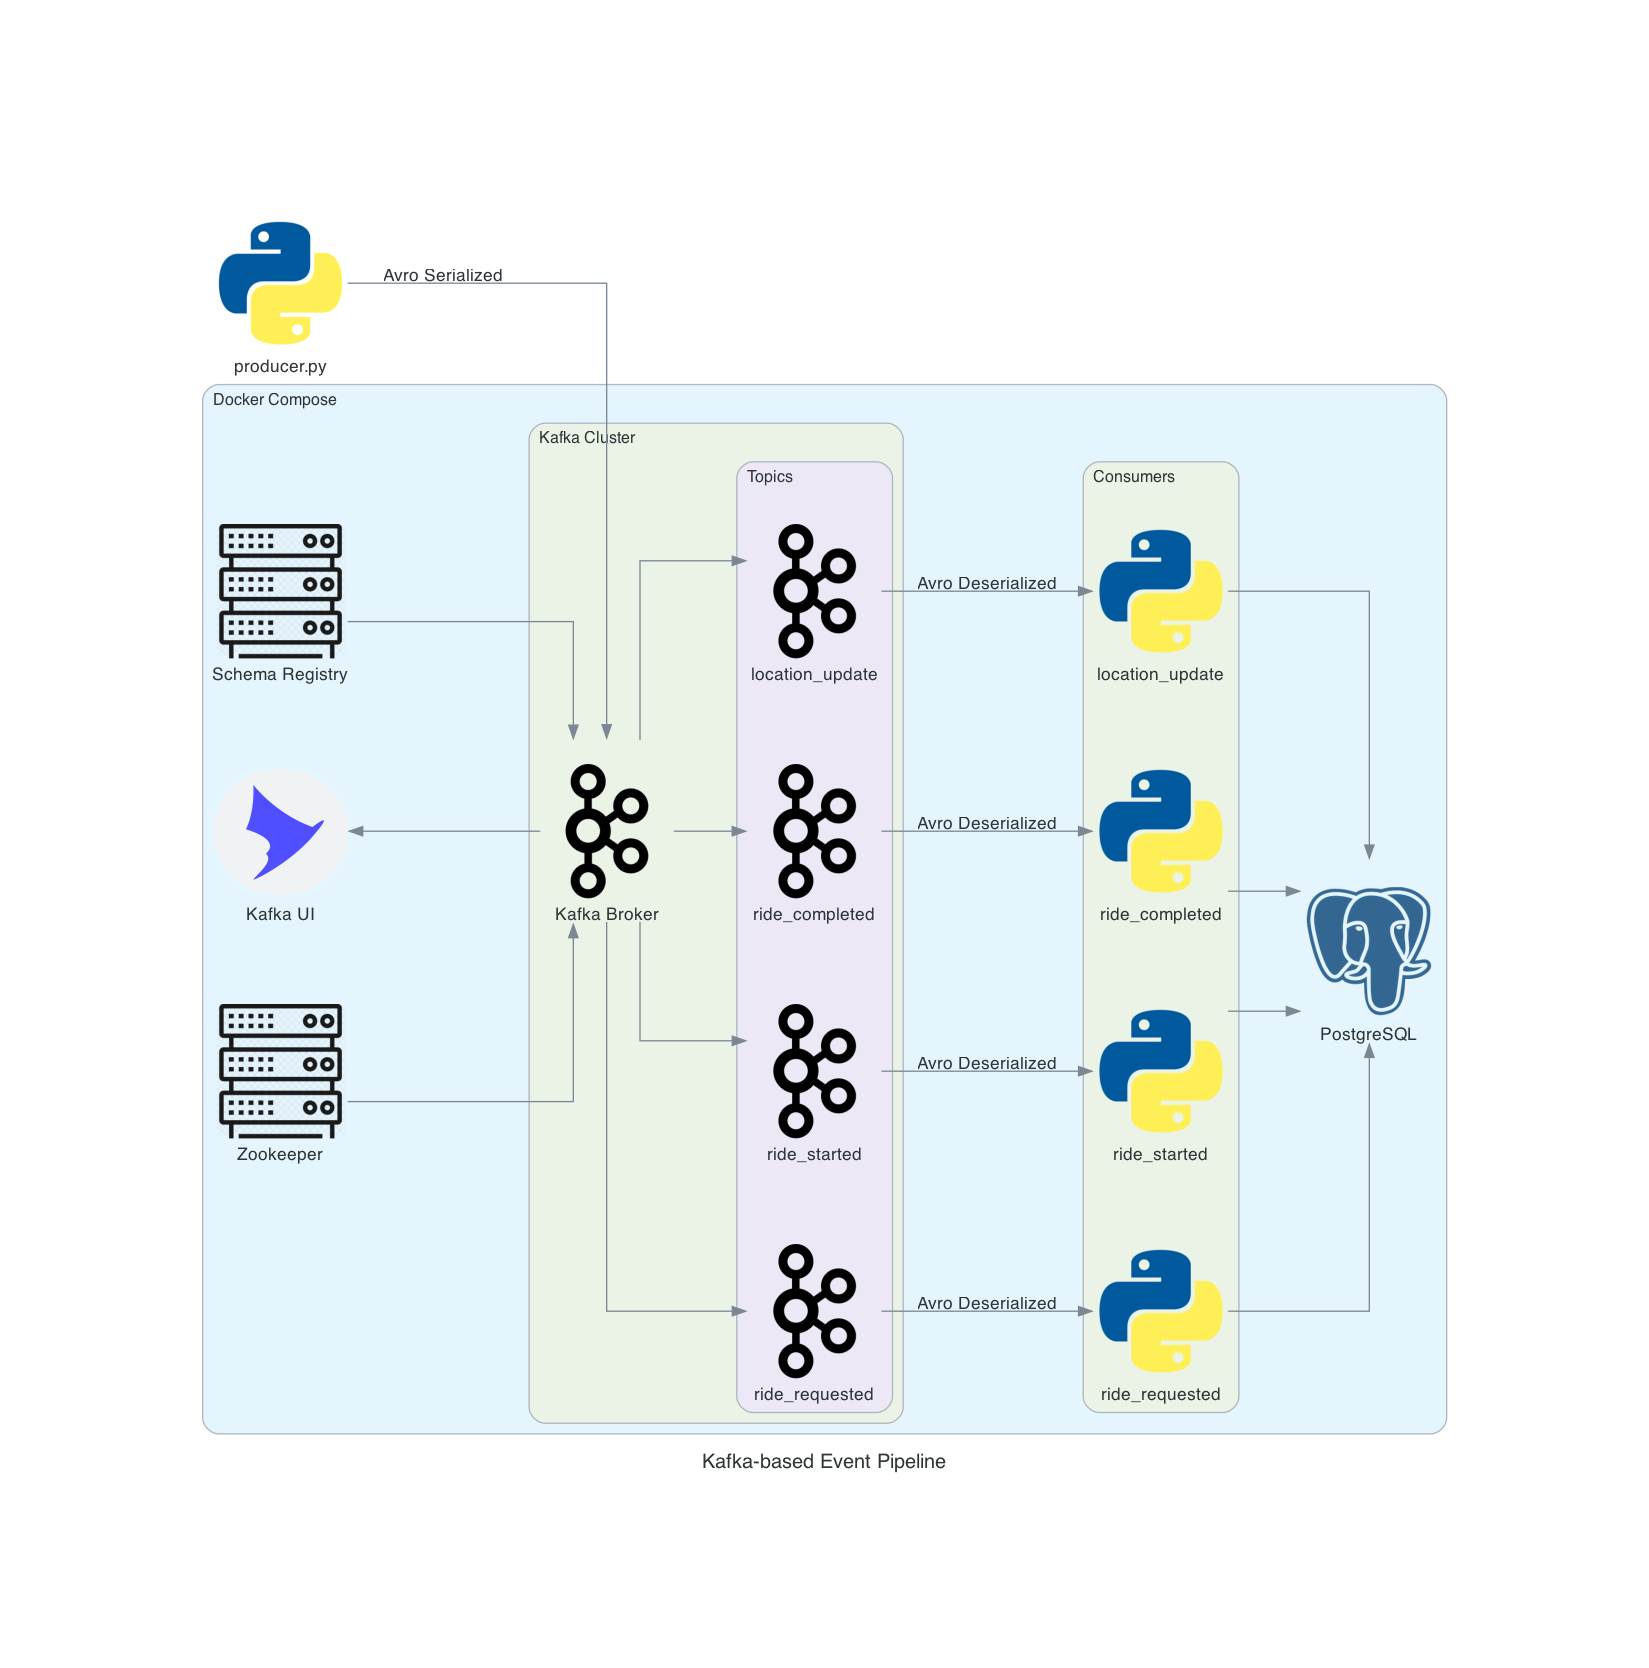
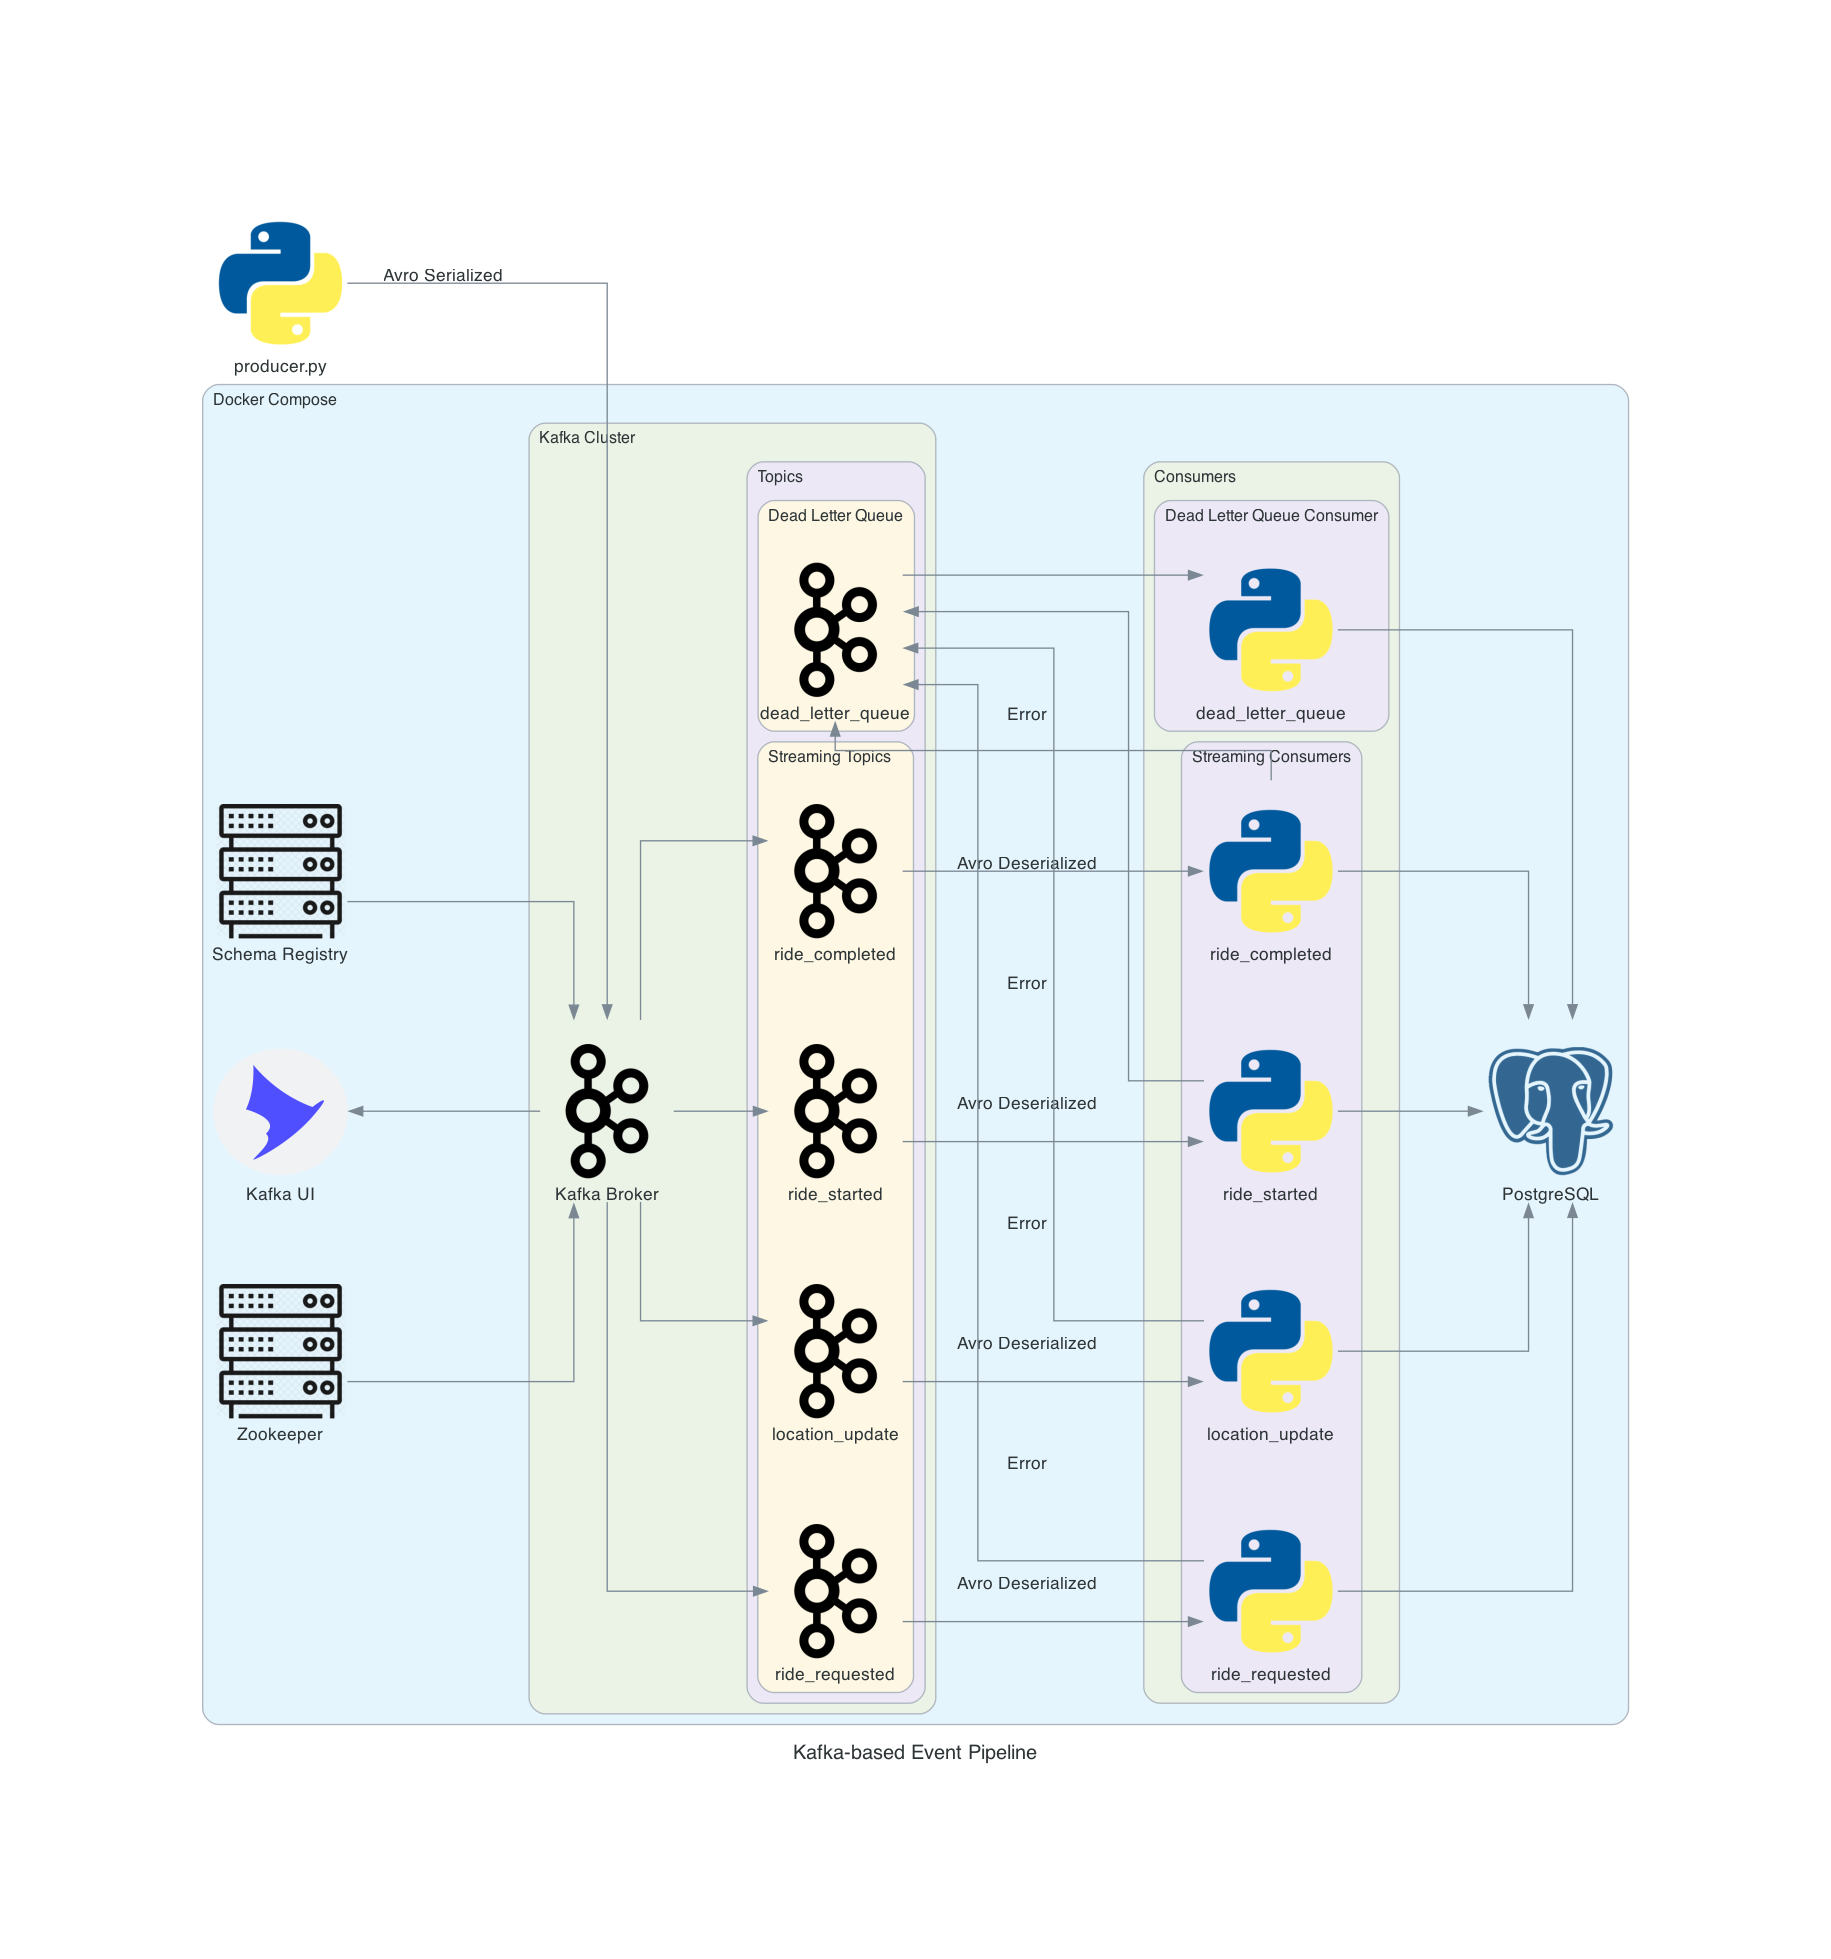
#17: updated diagram

Changed region(s): [[0.0928, 0.0935, 0.8969, 0.9041], [0.3093, 0.3429, 0.3402, 0.3741]]

diff --git a/assets/architecture_diagram.py b/assets/architecture_diagram.py
@@ -18,18 +18,23 @@ with Diagram("Kafka-based Event Pipeline", show=False, direction="LR"):
             kafka_broker = Kafka("Kafka Broker")
 
             with Cluster("Topics"):
-                topic1 = Kafka("ride_requested")
-                topic2 = Kafka("ride_started")
-                topic3 = Kafka("ride_completed")
-                topic4 = Kafka("location_update")
-                topic5 = Kafka("dead_letter_queue")
+                with Cluster("Streaming Topics"):
+                    topic1 = Kafka("ride_requested")
+                    topic2 = Kafka("ride_started")
+                    topic3 = Kafka("ride_completed")
+                    topic4 = Kafka("location_update")
+                with Cluster("Dead Letter Queue"):
+                    topic5 = Kafka("dead_letter_queue")
 
         with Cluster("Consumers"):
-            c1 = Python("ride_requested")
-            c2 = Python("ride_started")
-            c3 = Python("ride_completed")
-            c4 = Python("location_update")
-            c5 = Python("dead_letter_queue")
+            with Cluster("Streaming Consumers"):
+                c1 = Python("ride_requested")
+                c2 = Python("ride_started")
+                c3 = Python("ride_completed")
+                c4 = Python("location_update")
+
+            with Cluster("Dead Letter Queue Consumer"):
+                c5 = Python("dead_letter_queue")
 
         db = PostgreSQL("PostgreSQL")
 
